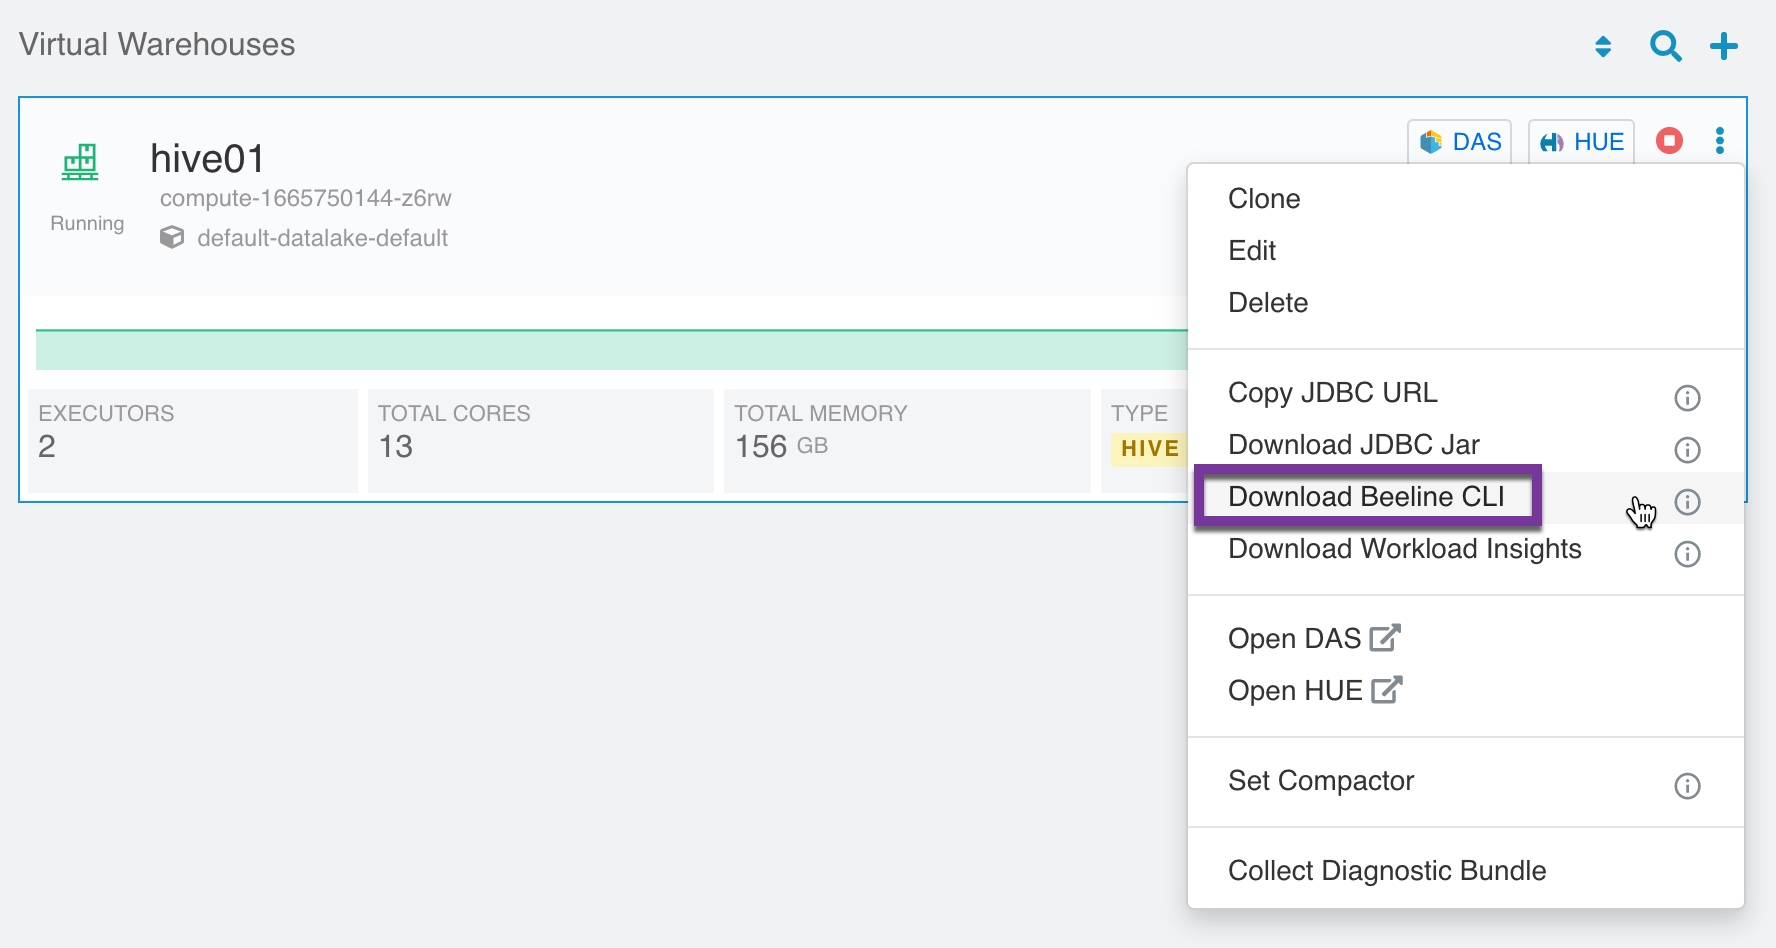
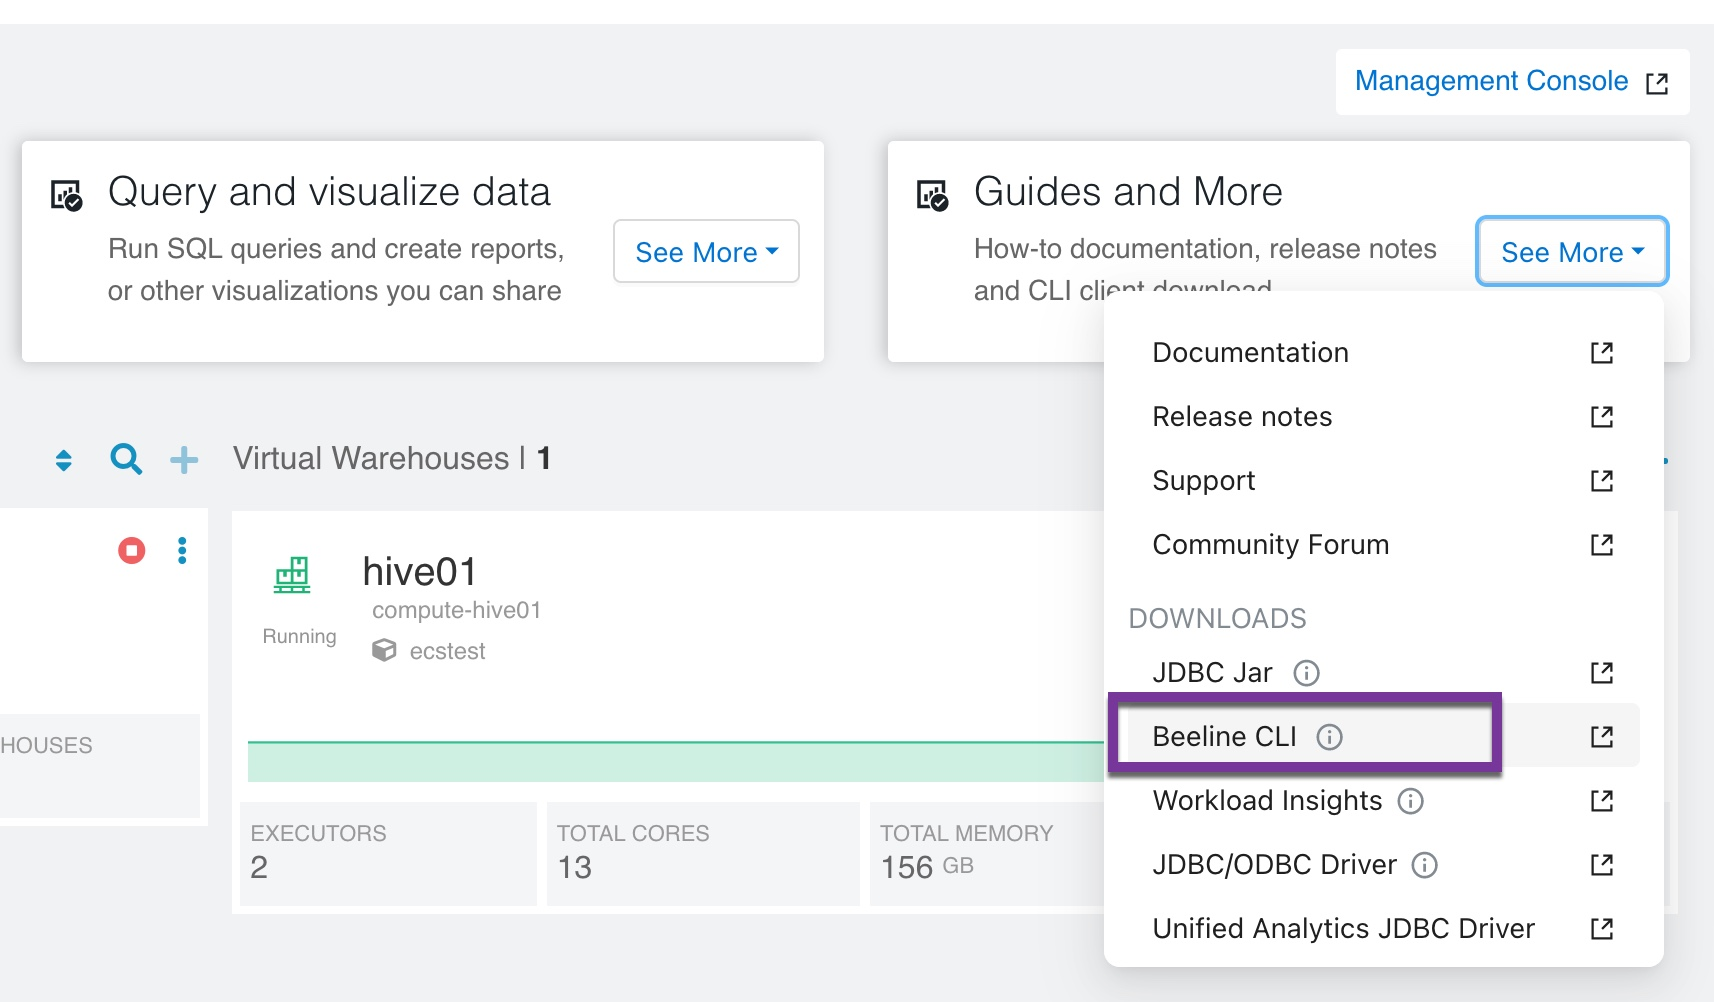
add hadoopclient

diff --git a/docs/ds/hadoopclients.md b/docs/ds/hadoopclients.md
@@ -35,15 +35,20 @@ brew install openjdk@11
 ## 2. Install Python 3.8.13
 
 ```bash
+pyenv install --list
+rm -rf $(pyenv root)
+brew uninstall pyenv
 brew install pyenv
-pyenv install 3.8.13
-pyenv global 3.8.13
+pyenv install 3.8.12
+pyenv global 3.8.12
 pyenv version
 ```
 
 ## 3. Install Beeline 3.1.3
 
-- In order to connect to Hive VW via beeline shell, the first step is to download Beeline CLI software. Click on the 3 dots beside the HUE button, and click on the ["Download Beeline CLI"](https://cdw-ui.s3.amazonaws.com/hive3/beeline-standalone/apache-hive-beeline-3.1.3000.tar.gz).
+- Note: To use Kerberos auth in PvC DS you must use the latest beeline CLI(3.1.3000.2023.0.14.0-84) downloaded from the PVC DS DW UI.
+
+- In order to connect to Hive VW via beeline shell, the first step is to download Beeline CLI software. "Guides and More" is on the Cloudera Data Warehouse Overview. Navigate to "Guides and More" and click on the "see more" button, you can see ["Downloads - Beeline CLI"](https://cdw-ui.s3.amazonaws.com/hive3/beeline-standalone/apache-hive-beeline-3.1.3000.tar.gz).
 
 ![](../../assets/images/ds/gateway001.jpg)
 
@@ -52,7 +57,7 @@ pyenv version
 mkdir -p $HOME/hadoop-clients
 tar xvzf apache-hive-beeline-3.1.3000.tar.gz -C $HOME/hadoop-clients
 cd $HOME/hadoop-clients
-ln -s apache-hive-beeline-3.1.3000.2022.0.8.0-3 beeline
+ln -s apache-hive-beeline-3.1.3000.2023.0.14.0-84 beeline
 ```
 ![](../../assets/images/ds/gateway002.jpg)
 
@@ -60,6 +65,7 @@ ln -s apache-hive-beeline-3.1.3000.2022.0.8.0-3 beeline
 ## 4. Install Impala-shell 4.1
 
 - Impala shell can be invoked on a remote client machine by installing the impala-shell package. It is a python package that can be installed using pip.
+    - Note: Kerberos authentication requires impala-shell version 4.2.0 or later (https://pypi.org/project/impala-shell/4.2.0/). 
 
 ```console
 $ python -V
@@ -68,33 +74,37 @@ Python 3.8.13
 $ pip --version
 pip 22.0.4 from /Users/feng.xu/.pyenv/versions/3.8.13/lib/python3.8/site-packages/pip (python 3.8)
 
-$ sudo pip install impala-shell==4.1.0a2
-Password:
-Collecting impala-shell==4.1.0a2
-  Downloading impala_shell-4.1.0a2.tar.gz (484 kB)
-      484.7/484.7 KB 639.3 kB/s eta 0:00:00
+$ sudo pip install impala-shell==4.2.0
+
+```bash
+Collecting impala-shell==4.2.0
+  Downloading impala_shell-4.2.0.tar.gz (464 kB)
+      464.1/464.1 KB 465.4 kB/s eta 0:00:00
   Preparing metadata (setup.py) ... done
 Collecting bitarray==2.3.0
   Downloading bitarray-2.3.0.tar.gz (87 kB)
-      87.1/87.1 KB 4.8 MB/s eta 0:00:00
+      87.1/87.1 KB 2.1 MB/s eta 0:00:00
   Preparing metadata (setup.py) ... done
 Collecting configparser==4.0.2
   Downloading configparser-4.0.2-py2.py3-none-any.whl (22 kB)
+Collecting kerberos==1.3.1
+  Downloading kerberos-1.3.1-cp38-cp38-macosx_10_15_x86_64.whl (33 kB)
 Collecting prettytable==0.7.2
   Downloading prettytable-0.7.2.zip (28 kB)
   Preparing metadata (setup.py) ... done
-Collecting sasl==0.2.1
-  Downloading sasl-0.2.1.tar.gz (30 kB)
+Collecting sasl==0.3.1
+  Downloading sasl-0.3.1.tar.gz (44 kB)
+      44.7/44.7 KB 96.5 MB/s eta 0:00:00
   Preparing metadata (setup.py) ... done
-Requirement already satisfied: setuptools>=36.8.0 in ./.pyenv/versions/3.8.13/lib/python3.8/site-packages (from impala-shell==4.1.0a2) (56.0.0)
+Requirement already satisfied: setuptools>=36.8.0 in ./.pyenv/versions/3.8.13/lib/python3.8/site-packages (from impala-shell==4.2.0) (56.0.0)
 Collecting six==1.14.0
   Downloading six-1.14.0-py2.py3-none-any.whl (10 kB)
 Collecting sqlparse==0.3.1
   Downloading sqlparse-0.3.1-py2.py3-none-any.whl (40 kB)
-      40.8/40.8 KB 117.6 MB/s eta 0:00:00
-Collecting thrift==0.11.0
-  Downloading thrift-0.11.0.tar.gz (52 kB)
-      52.5/52.5 KB 10.6 MB/s eta 0:00:00
+      40.8/40.8 KB 17.3 MB/s eta 0:00:00
+Collecting thrift==0.14.2
+  Downloading thrift-0.14.2.tar.gz (59 kB)
+      59.4/59.4 KB 17.2 MB/s eta 0:00:00
   Preparing metadata (setup.py) ... done
 Collecting thrift_sasl==0.4.3
   Downloading thrift_sasl-0.4.3-py2.py3-none-any.whl (8.3 kB)
@@ -107,21 +117,21 @@ Using legacy 'setup.py install' for prettytable, since package 'wheel' is not in
 Using legacy 'setup.py install' for sasl, since package 'wheel' is not installed.
 Using legacy 'setup.py install' for thrift, since package 'wheel' is not installed.
 Using legacy 'setup.py install' for pure-sasl, since package 'wheel' is not installed.
-Installing collected packages: pure-sasl, prettytable, bitarray, sqlparse, six, configparser, thrift, sasl, thrift_sasl, impala-shell
+Installing collected packages: pure-sasl, prettytable, kerberos, bitarray, sqlparse, six, configparser, thrift, sasl, thrift_sasl, impala-shell
   Running setup.py install for pure-sasl ... done
   Running setup.py install for prettytable ... done
   Running setup.py install for bitarray ... done
   Running setup.py install for thrift ... done
   Running setup.py install for sasl ... done
   Running setup.py install for impala-shell ... done
-Successfully installed bitarray-2.3.0 configparser-4.0.2 impala-shell-4.1.0a2 prettytable-0.7.2 pure-sasl-0.6.2 sasl-0.2.1 six-1.14.0 sqlparse-0.3.1 thrift-0.11.0 thrift_sasl-0.4.3
+Successfully installed bitarray-2.3.0 configparser-4.0.2 impala-shell-4.2.0 kerberos-1.3.1 prettytable-0.7.2 pure-sasl-0.6.2 sasl-0.3.1 six-1.14.0 sqlparse-0.3.1 thrift-0.14.2 thrift_sasl-0.4.3
 ```
 
 - The following are the artifacts added by impala-shell installation.
 ```console
-    $HOME/.pyenv/versions/3.8.13/lib/python3.8/site-packages/impala_shell-4.1.0a2-py3.8.egg-info/*
+    $HOME/.pyenv/versions/3.8.13/bin/impala-shell
+    $HOME/.pyenv/versions/3.8.13/lib/python3.8/site-packages/impala_shell-4.2.0-py3.8.egg-info
     $HOME/.pyenv/versions/3.8.13/lib/python3.8/site-packages/impala_shell/*
-    /usr/local/bin/impala-shell
 ```
 
 
@@ -285,7 +295,7 @@ beeline -u 'jdbc:hive2://hs2-hive01.apps.ecs-lb.sme-feng.athens.cloudera.com/def
 ![](../../assets/images/ds/gateway011.jpg)
 
 - Connect to Hive VW in PvC CDW using LDAP authentication with CA from Auto TLS setup.
-    - Please retrieve vault.ca by a kubectl call: `kubectl get configmap -n cdp vault-jks -o jsonpath="{.binaryData['truststore\.jks']}"| base64 --decode > truststore.jks`
+    - Please retrieve truststore.jks by a kubectl call: `kubectl get configmap -n cdp vault-jks -o jsonpath="{.binaryData['truststore\.jks']}"| base64 --decode > truststore.jks`. The default password is `changeit`.
     
 ```bash
 kubectl get configmap -n cdp vault-jks -o jsonpath="{.binaryData['truststore\.jks']}"| base64 --decode > truststore.jks
@@ -293,6 +303,33 @@ beeline -u 'jdbc:hive2://hs2-hive01.apps.ecs.sme-feng.athens.cloudera.com/defaul
 ```
 
 ![](../../assets/images/ds/gateway013.jpg)
+
+
+- Connect to Hive VW in PvC CDW using Kerberos authentication without CA.
+	- You must use the latest beeline CLI(3.1.3000.2023.0.14.0-84) downloaded from the PVC DS DW UI. Otherwise the connection will fail with errors "HTTP Response code: 404 (state=08S01,code=0)".
+    - You must add the kerberosEnableCanonicalHostnameCheck=false option in the jdbc url. The kerberosEnableCanonicalHostnameCheck option disables the reverse dns check implemented in the jdbc driver. There is no need for this in PVC Base, because the reverse dns records must be correct there for the cluster nodes (otherwise Kerberos does not work between cluster services). So this is a DS specific functionality and it was not backported from the upstream hive code to the PVC Base jdbc drivers, which is why Kerberos auth does not work with the drivers installed on Base nodes towards PVC DS Virtual Warehouses.
+    - You must set JAVA_TOOL_OPTIONS=-Djavax.security.auth.useSubjectCredsOnly=false prop in the java env (this allows jvm to use kerberos tickets from the system ticket cache).
+
+```bash
+kinit cdw01
+JAVA_TOOL_OPTIONS="-Djavax.security.auth.useSubjectCredsOnly=false" beeline -u "jdbc:hive2://hs2-hive01.apps.ecstest.sme-feng.athens.cloudera.com/default;transportMode=http;httpPath=cliservice;socketTimeout=60;ssl=false;retries=3;kerberosEnableCanonicalHostnameCheck=false;principal=hive/dwx-env-ecstest.cdp.local@FENG.COM"
+```
+
+![](../../assets/images/ds/gateway016.jpg)
+
+- Connect to Hive VW in PvC CDW using Kerberos authentication with CA from Auto TLS setup.
+   - You must use the latest beeline CLI(3.1.3000.2023.0.14.0-84) downloaded from the PVC DS DW UI. Otherwise the connection will fail with errors "HTTP Response code: 404 (state=08S01,code=0)".
+   - You must add the kerberosEnableCanonicalHostnameCheck=false option in the jdbc url. The kerberosEnableCanonicalHostnameCheck option disables the reverse dns check implemented in the jdbc driver. There is no need for this in PVC Base, because the reverse dns records must be correct there for the cluster nodes (otherwise Kerberos does not work between cluster services). So this is a DS specific functionality and it was not backported from the upstream hive code to the PVC Base jdbc drivers, which is why Kerberos auth does not work with the drivers installed on Base nodes towards PVC DS Virtual Warehouses.
+    - You must set JAVA_TOOL_OPTIONS=-Djavax.security.auth.useSubjectCredsOnly=false prop in the java env (this allows jvm to use kerberos tickets from the system ticket cache).
+    - Please retrieve truststore.jks by a kubectl call: `kubectl get configmap -n cdp vault-jks -o jsonpath="{.binaryData['truststore\.jks']}"| base64 --decode > truststore.jks`. The default password is `changeit`.
+
+```bash
+kubectl get configmap -n cdp vault-jks -o jsonpath="{.binaryData['truststore\.jks']}"| base64 --decode > truststore.jks
+kinit cdw01
+JAVA_TOOL_OPTIONS="-Djavax.security.auth.useSubjectCredsOnly=false" beeline -u "jdbc:hive2://hs2-hive01.apps.ecstest.sme-feng.athens.cloudera.com/default;transportMode=http;httpPath=cliservice;socketTimeout=60;ssl=true;sslTrustStore=truststore.jks;trustStorePassword=changeit;retries=3;kerberosEnableCanonicalHostnameCheck=false;principal=hive/dwx-env-ecstest.cdp.local@FENG.COM"
+```
+
+![](../../assets/images/ds/gateway015.jpg)
 
 - Connect to Impala in CDP Base cluster B [realm=FENG.COM] using Kerberos authentication.
 
@@ -313,6 +350,19 @@ beeline -d "com.cloudera.impala.jdbc41.Driver" -u "jdbc:impala://coordinator-imp
 ```
 
 ![](../../assets/images/ds/gateway006.jpg)
+
+
+- Connect to Impala VW in PvC CDW using Kerberos authentication with CA from Auto TLS setup.
+    - Please retrieve truststore.jks by a kubectl call: `kubectl get configmap -n cdp vault-jks -o jsonpath="{.binaryData['truststore\.jks']}"| base64 --decode > truststore.jks`. The default password is `changeit`.
+
+```bash
+kubectl get configmap -n cdp vault-jks -o jsonpath="{.binaryData['truststore\.jks']}"| base64 --decode > truststore.jks
+kinit cdw01
+export HIVE_AUX_JARS_PATH=~/work/projects/ImpalaJDBC41.jar
+beeline -u "jdbc:impala://coordinator-impala01.apps.ecstest.sme-feng.athens.cloudera.com:443/default;AuthMech=1;transportMode=http;httpPath=cliservice;ssl=1;KrbHostFQDN=dwx-env-ecstest.cdp.local.;KrbServiceName=hive;sslTrustStore=truststore.jks;trustStorePassword=changeit"
+```
+
+![](../../assets/images/ds/gateway017.jpg)
 
 
 
@@ -362,19 +412,15 @@ impala-shell --protocol='hs2-http' --ssl --ca_cert ./vault.ca -i 'coordinator-im
 
 
 - Connect to Impala VW in PvC CDW using Kerberos authentication with CA from Auto TLS setup. 
-    - Please upgrade impala-shell to 4.3.0a2 at first
+    - Please upgrade impala-shell to 4.2.0 or later
     - You can enable kerberos debug logging for impala-shell
 
 ```bash
-pip install --upgrade pip==18.1
-yum install gcc-c++ python-devel.x86_64 cyrus-sasl-devel.x86_64
-pip install --upgrade impala-shell==4.3.0a2
-
 export HADOOP_OPTS="-Dsun.security.krb5.debug=true"
 export KRB5_TRACE=/dev/stdout
 export HADOOP_ROOT_LOGGER=TRACE,console
 
-kinit cdw01 
+kinit cdw01
 impala-shell --protocol='hs2-http' --ssl -i 'coordinator-impala01.apps.ecs.sme-feng.athens.cloudera.com:443' -s hive -k --kerberos_host_fqdn=dwx-env-ecs.cdp.local.
 ```
 
